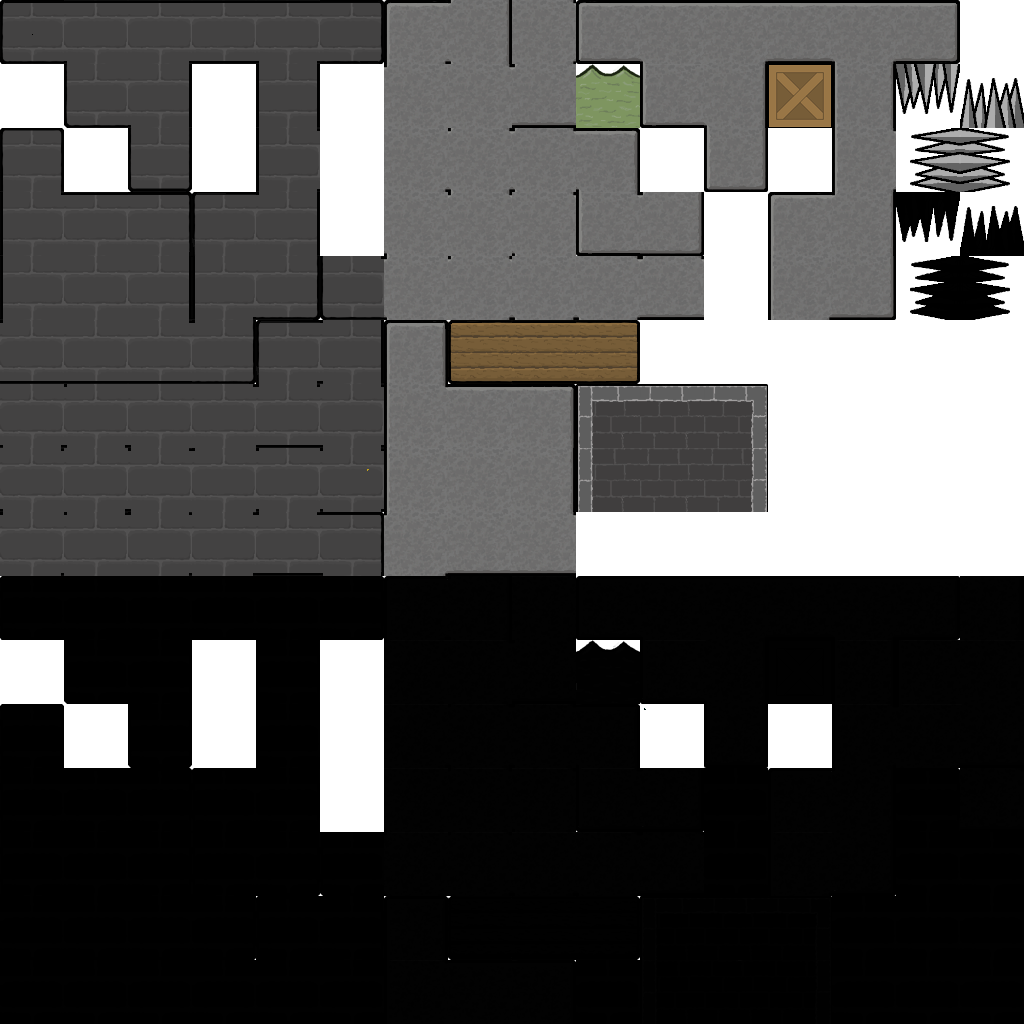
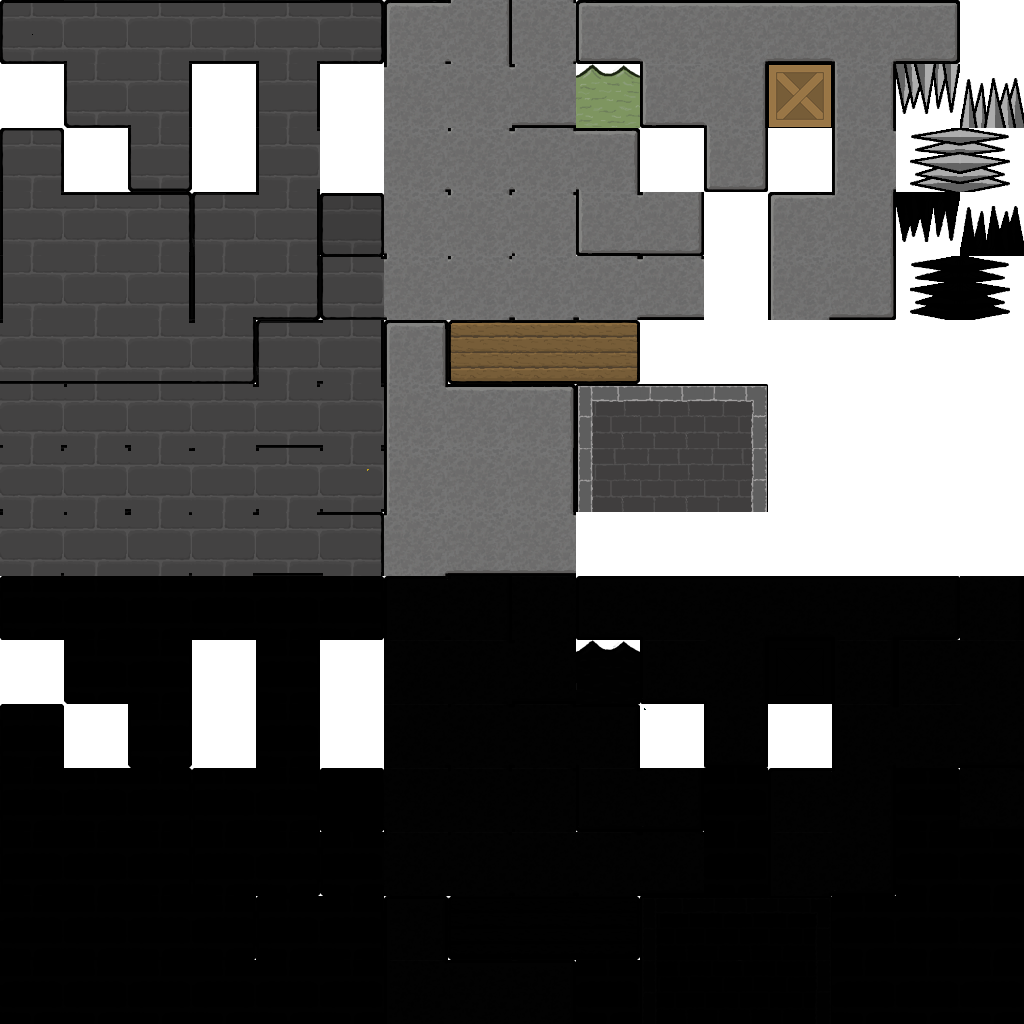
lvl 1 almost finished, mobile gui, change in color of objects creation

Changed region(s): [[0.3125, 0.75, 0.375, 0.8125], [0.3125, 0.1875, 0.375, 0.25]]

diff --git a/src/ObjectFactory.js b/src/ObjectFactory.js
@@ -29,10 +29,16 @@ ObjectFactory.prototype.createProductFromColor = function (color, x, y) {
         this.scene.selectedPlayer = objControl.colorPlayer;
 
 
-    } if (color.a == 128) {
+
+
+    }
+
+    /*
+    if (color.a == 128) {
 
         //objeto palanca
         if (color.b == 64) {
+            
             if (color.r % 5 == 1) color.r--;
             if (color.g % 5 == 4) color.g--;
             console.log(color.r);
@@ -84,5 +90,64 @@ ObjectFactory.prototype.createProductFromColor = function (color, x, y) {
             new TeaLife(this.scene, x, y - 16, 0, false);
             new TeaLife(this.scene, x, y - Game.TILE_SIZE * this.scene.shadowLevel - 16, 0, true);
         }
+    }*/
+    if (color.g == 0) {
+        
+        if (color.r == 128) {
+            if (color.b == 0) {                
+                new Wall(this.scene, x, y, 0);
+            } else if (color.b == 64) {  
+                new Wall(this.scene, x, y, 1);
+            } else if (color.b == 128) {
+                console.log("" + color.r + " "+ color.g + " "+ color.b); 
+                new Wall(this.scene, x, y, 0);
+                new Wall(this.scene, x, y, 1);
+            }
+        } else if (color.r == 64) {
+            if (color.b == 0) {
+                new Door(this.scene, x, y, 0, false);
+            } else if (color.b == 64) {
+                new Key(this.scene, x, y - 16, 0, false);
+                new Key(this.scene, x, y - Game.TILE_SIZE * this.scene.shadowLevel-16, 1, true);
+            } else if (color.b == 128) {
+                new GoldenTeapot(this.scene, x, y, 0);
+            } else if (color.b == 255) {
+                new TeaLife(this.scene, x, y - 16, 0, false);
+                new TeaLife(this.scene, x, y - Game.TILE_SIZE * this.scene.shadowLevel - 16, 0, true);
+
+            }
+        }
     }
+    else if (color.g == 64) {
+        if (color.b == 0) {
+            new DamageBlock(this.scene, x, y, 0, color.r);
+        }
+        else if (color.b == 64) {
+            if (color.r == 0) {
+                new Bridge(this.scene, x, y, 0, false, 1);
+                new Bridge(this.scene, x, y - Game.TILE_SIZE * this.scene.shadowLevel, 1, true, 1);
+
+            } else if (color.r == 64) {
+                new Bridge(this.scene, x, y, 0, false, -1);
+                new Bridge(this.scene, x, y - Game.TILE_SIZE * this.scene.shadowLevel, 1, true, -1);
+            }
+            
+        } else {
+            if (color.r == 0) {
+                new MovablePlatform(this.scene, x, y, 0, false, 1, color.b);
+                new MovablePlatform(this.scene, x, y - Game.TILE_SIZE * this.scene.shadowLevel, 1, true, 1, color.b);
+            } else if (color.r == 64) {
+                new MovablePlatform(this.scene, x, y, 0, false, 2, color.b);
+                new MovablePlatform(this.scene, x, y - Game.TILE_SIZE * this.scene.shadowLevel, 1, true, 2, color.b);
+            }
+
+        }
+
+    } else if (color.g == 128){
+        console.log(color.r); 
+        console.log(color.b); 
+        new Lever(this.scene, x, y, 0, false, color.r * Game.TILE_SIZE, color.b * Game.TILE_SIZE);
+        new Lever(this.scene, x, y - Game.TILE_SIZE * this.scene.shadowLevel, 0, true, color.r * Game.TILE_SIZE, color.b * Game.TILE_SIZE);
+    }
+
 }

diff --git a/src/guisets/InGameGUI.js b/src/guisets/InGameGUI.js
@@ -32,7 +32,7 @@ InGameGUI.prototype.create = function(){
 
     //botones de juego en movil
     if(input.currentInputMode == input.inputMode.MOBILE){
-        let buttonSwapPlayerSprite = new GUIImage(this.scene,"botonAjustes",50,50,0,0,114,52,0);
+        let buttonSwapPlayerSprite = new GUIImage(this.scene,"mobileButton1",50,50,0,0,114,52,0);
         buttonSwapPlayerSprite.alpha = 0.3;
         let swapPlayerGUI = function(){
             this.scene.objControl.colorPlayer.controls.changePlayerCommand.ivoked = true;
@@ -41,7 +41,7 @@ InGameGUI.prototype.create = function(){
         let buttonSwap = new Button(this.scene,viewport.width - buttonOptionsSprite.width - 20,viewport.height - 130,0,buttonSwapPlayerSprite, swapPlayerGUI);
         buttonSwap.vel = 0;
 
-        let buttonInteractSprite = new GUIImage(this.scene,"botonAjustes",50,50,0,0,114,52,0);
+        let buttonInteractSprite = new GUIImage(this.scene,"mobileButton2",50,50,0,0,114,52,0);
         buttonInteractSprite.alpha = 0.3;
         let interactGUI = function(){
             this.scene.objControl.colorPlayer.controls.interactCommand.ivoked = true;

diff --git a/src/scenes/StartScene.js b/src/scenes/StartScene.js
@@ -26,6 +26,8 @@ StartScene.prototype.preload = function(){
     Scene.prototype.loadToScene.call(this, "volumeLine", "./assets/gui/palito.png");
     Scene.prototype.loadToScene.call(this, "bgMenu", "./assets/backgrounds/bgMenu.png");
     Scene.prototype.loadToScene.call(this, "fgMiss", "./assets/backgrounds/fgMissTeapot.png");
+    Scene.prototype.loadToScene.call(this,"mobileButton1", "./assets/gui/mobileButton1.png");
+    Scene.prototype.loadToScene.call(this,"mobileButton2", "./assets/gui/mobileButton2.png");
 
     Scene.prototype.preload.call(this);
     
